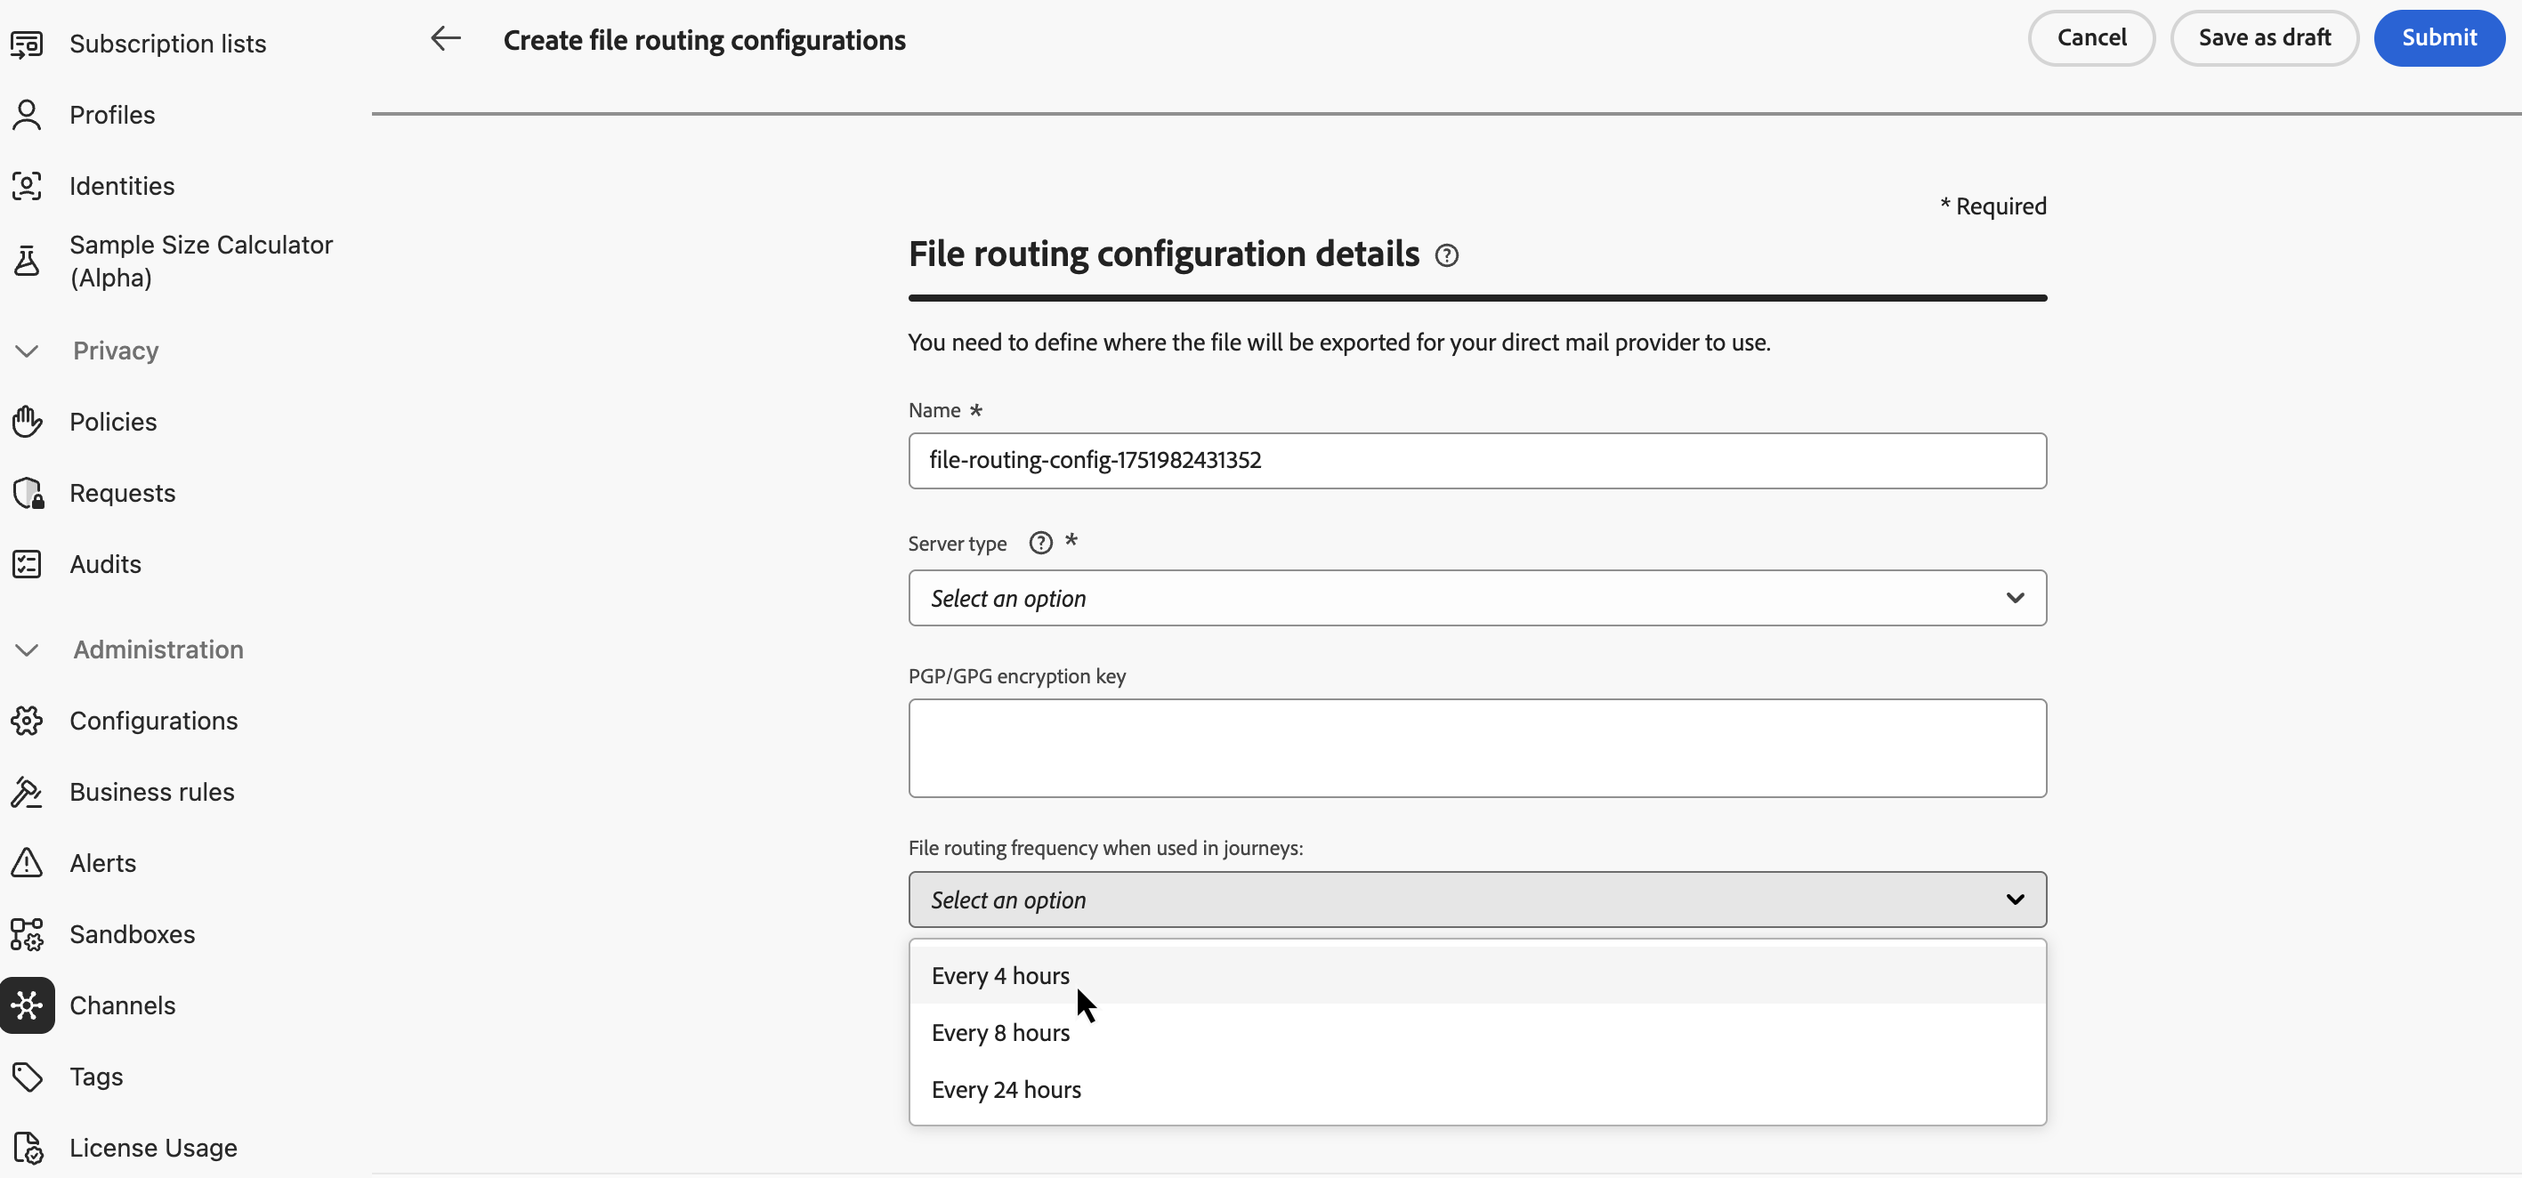
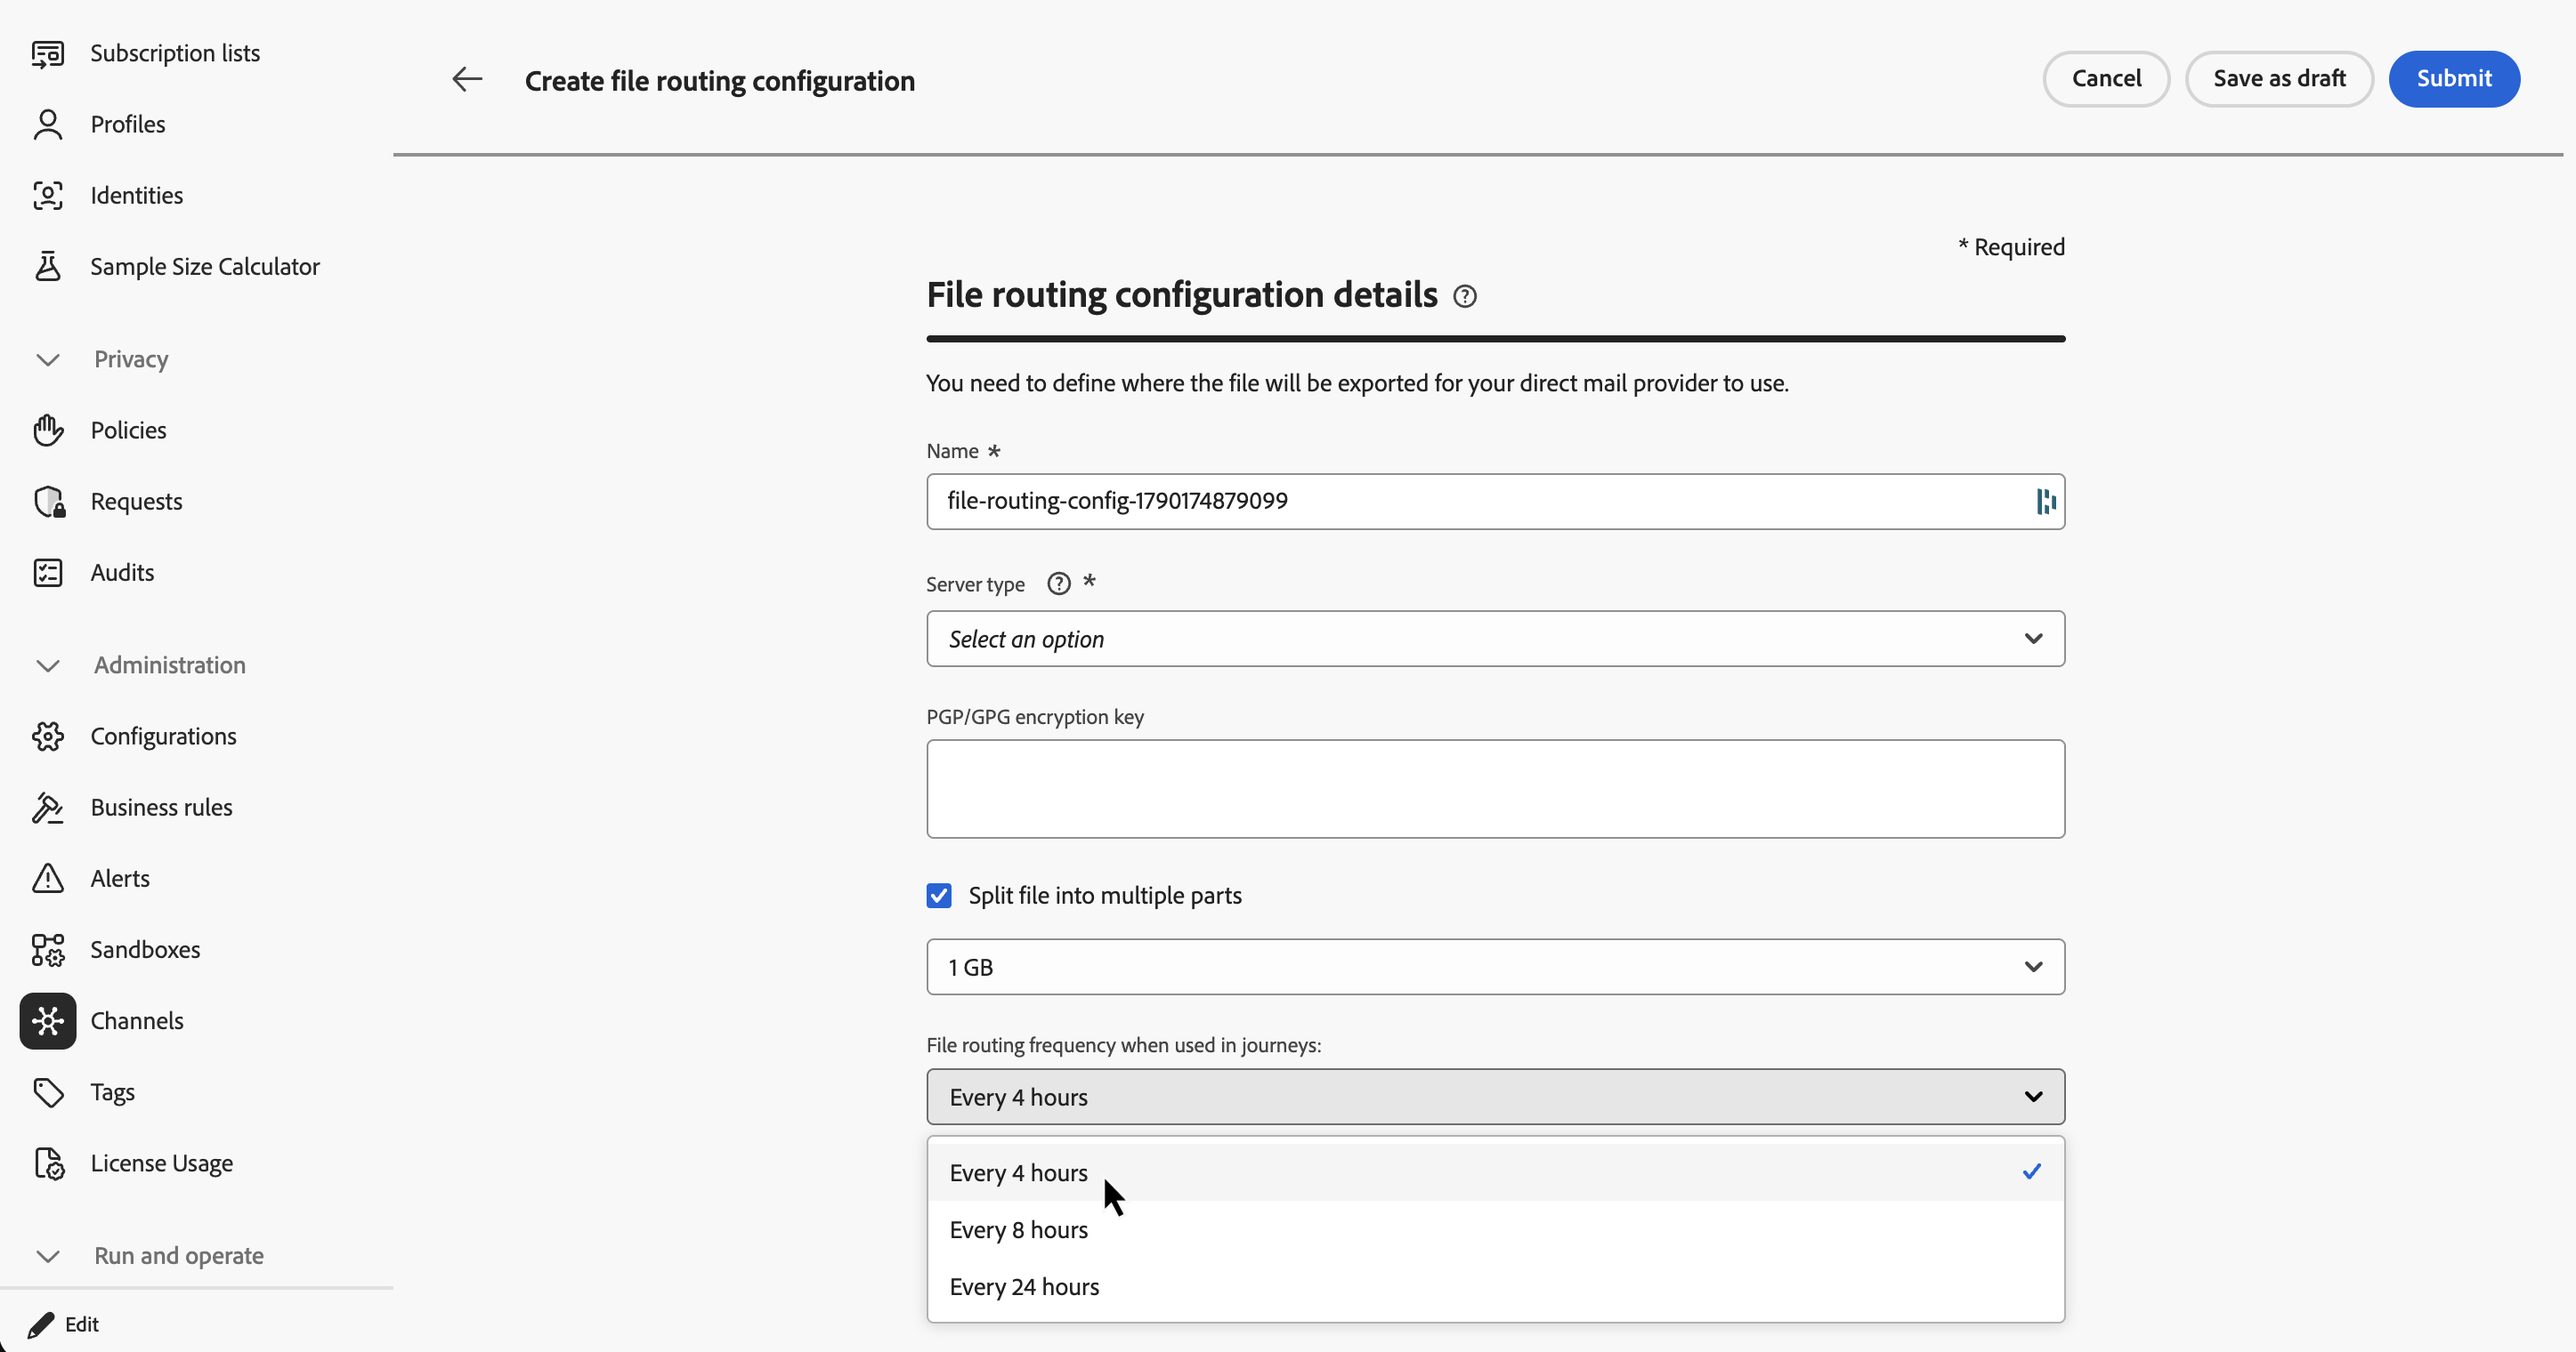
DOCAC-15677-split-direct-mail-files (#3517)
* draft

* remove manifest from feature

* update

* update rn

* update rn

diff --git a/help/using/direct-mail/direct-mail-configuration.md b/help/using/direct-mail/direct-mail-configuration.md
@@ -189,11 +189,17 @@ All customers of [!DNL Adobe Experience Platform] are provisioned with one Data 
 
 >[!ENDTABS]
 
-To encrypt the file, copy-paste your encryption key in the **[!UICONTROL PGP/GPG encryption key]** field.
+The following settings apply regardless of the server type you selected:
 
-If your file routing configuration is going to be sent using journeys, you can specify the frequency at which the file is going to be sent the server.
+* **[!UICONTROL PGP/GPG encryption key]**: To encrypt the file, copy-paste your encryption key in this field.
 
-![Journey export frequency settings for a file routing configuration](assets/file-routing-journey.png)
+* **[!UICONTROL Split file into multiple parts]**: Select this option to set a target file size, from 500 MB to 10 GB, at which your exported direct mail file is split into several parts. If you do not select this option, Journey Optimizer still automatically splits the file once it exceeds approximately 20 GB.
+
+* **Frequency for journeys**: If your file routing configuration is going to be sent using journeys, you can specify the frequency at which the file is going to be sent the server.
+
+    ![Journey export frequency settings for a file routing configuration](assets/file-routing-journey.png)
+
+* **File compression**: Select this option to compress the exported file and reduce its size.
 
 Once you filled in the details for your server type, select **[!UICONTROL Submit]**. The file routing configuration is created with the **[!UICONTROL Active]** status. It is now ready to be used in a [direct mail configuration](#direct-mail-surface).
 

diff --git a/help/using/rn/release-notes.md b/help/using/rn/release-notes.md
@@ -81,11 +81,13 @@ The following capability is coming to channels in this release.
 </tbody>
 </table>
 
+* **Direct mail - Split large files automatically** - Direct Mail files can now be split into multiple parts automatically when they exceed roughly 20 GB, or manually by choosing a target file size in the file routing configuration. [Learn more](../direct-mail/direct-mail-configuration.md)
+
+  Availability date: October 1, 2026
+
 +++ Coming soon — **Information below is subject to change.**
 
 * **Custom SMS BYOP auth flexibility** - You can now configure **custom authentication headers** when connecting your SMS provider's OAuth setup, including where the token is placed on outgoing messages and how the token request itself is formatted.
-
-* **Direct mail - Split large files automatically** - Direct Mail files can now be split into multiple parts automatically when they exceed roughly 20 GB, or manually by choosing a target file size in the file routing configuration.
 
 * **Direct mail - Increased audience limit** - The Direct Mail channel audience limit has been increased from 3 million to 100 million profiles, letting you target much larger audiences without hitting file-creation errors.
 
